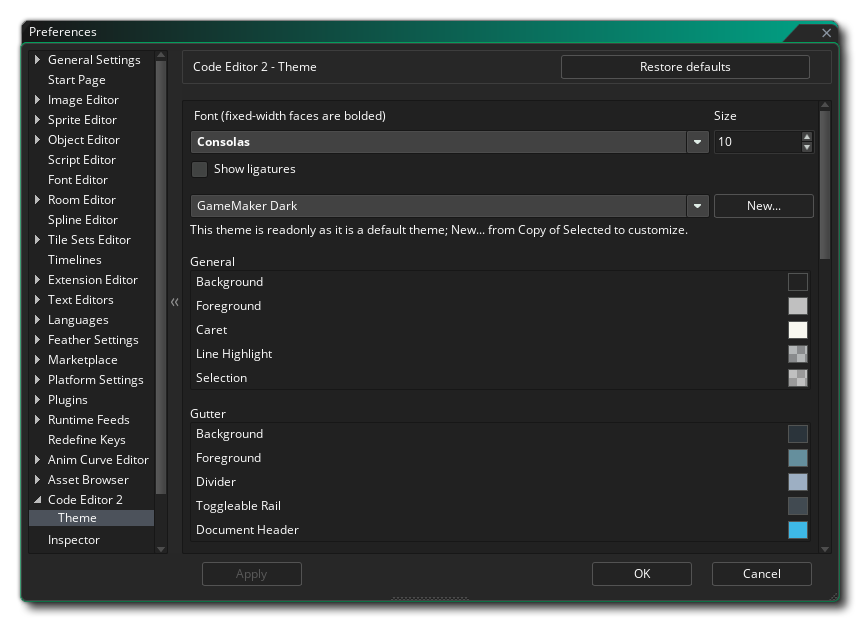
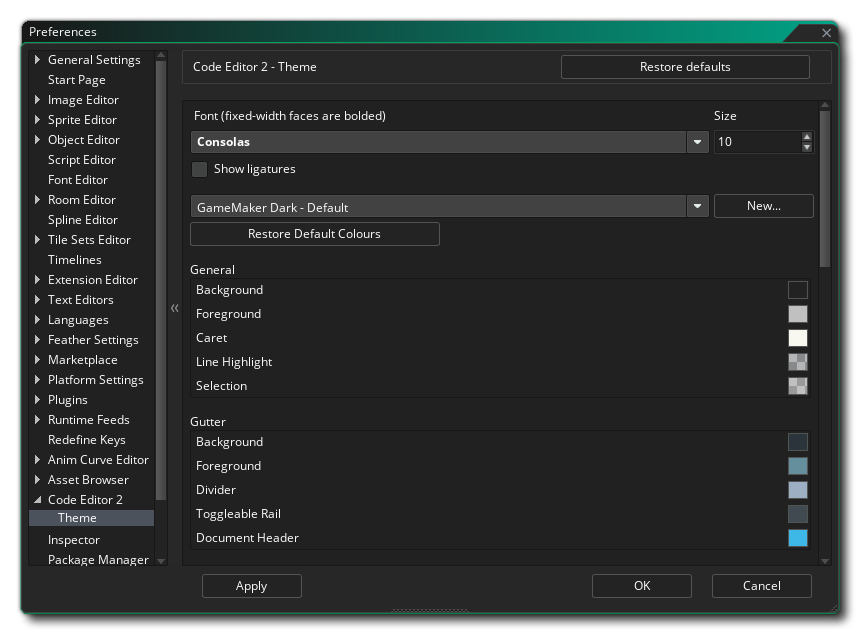
docs(feature): CE2 - "Restore Default Colours" button documented; you can now edit default theme https://github.com/YoYoGames/GameMaker-Bugs/issues/5794 https://github.com/YoYoGames/YoYoStudio/issues/9644

diff --git a/Manual/contents/Setting_Up_And_Version_Information/IDE_Preferences/Text_Editor_2_Preferences.htm b/Manual/contents/Setting_Up_And_Version_Information/IDE_Preferences/Text_Editor_2_Preferences.htm
@@ -87,13 +87,19 @@
   <p><img class="center" src="../../assets/Images/Setup_And_Version/Preferences/CE_Prefs_Theme.png" />The first option is the font used by the <span data-keyref="Code_Editor2_Name">Code Editor</span>. Fonts that are fixed-width (which are recommended for coding over non-fixed-width fonts) are <strong>bolded</strong> in the drop-down list.</p>
   <p>You can also choose the size of the font, and whether to enable ligatures for fonts that use them.</p>
   <h3>Theme Selector</h3>
-  <p>This contains a drop-drop menu for theme selection, with the default being &quot;<strong>GameMaker Dark</strong>&quot;. All built-in themes are read-only, meaning that none of the options below this are editable.</p>
-  <p>To modify any theme properties, you must make a new, custom theme by clicking on &quot;<strong>New...</strong>&quot;, which will give you the following options:</p>
+  <p>This contains a drop-drop menu for theme selection, with the default being &quot;<strong>GameMaker Dark - Default</strong>&quot;. You can edit any properties of the default theme.</p>
+  <p>You have the option to make a new, custom theme by clicking on &quot;<strong>New...</strong>&quot;, which will give you the following options:</p>
   <ul class="colour">
     <li><strong>from File</strong>: Allows you to load a <a href="https://macromates.com/manual/en/themes">TextMate</a> file.</li>
     <li><strong>from Copy of Selected</strong>: Creates a copy of the selected theme that you can edit.</li>
   </ul>
   <p>Once you have created a custom theme, you can delete it from the same drop-down menu.</p>
+  <p>Clicking on &quot;<strong>Restore Default Colours</strong>&quot; will do the following:</p>
+  <ul class="colour">
+    <li>Reset the &quot;<strong>GameMaker Dark - Default</strong>&quot; theme to its default properties, removing all your changes to it.</li>
+    <li>Reset all themes loaded from files to the values at the time of load.</li>
+    <li>Reset all copied themes to the defaults of their original themes.</li>
+  </ul>
   <h3>General</h3>
   <p>In this section you can define the colours used in the document view, such as the Background, Foreground, Caret, Line Highlight and Selection.</p>
   <h3>Gutter</h3>
